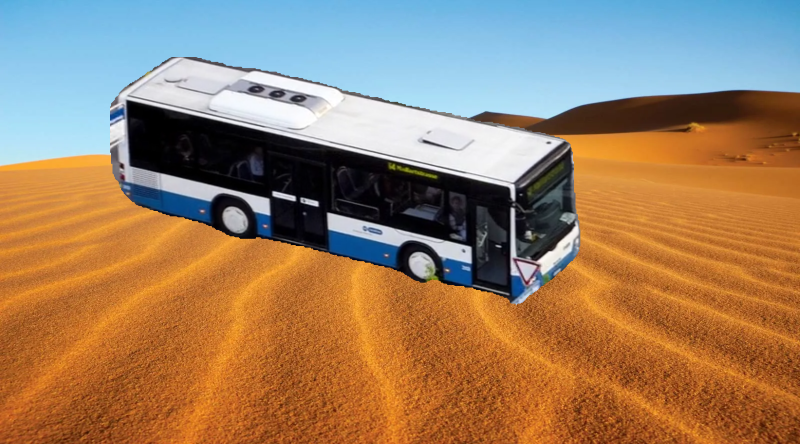
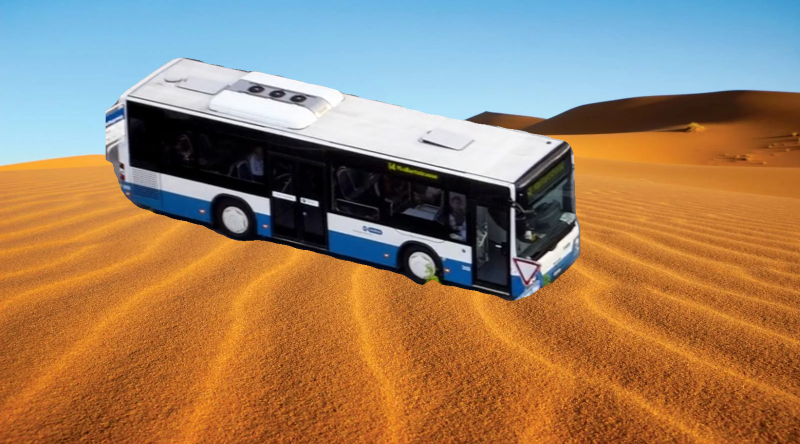
Enabled retina-masks, updated homepage images accordingly, added Home link in header

diff --git a/View/src/components/Header/index.tsx b/View/src/components/Header/index.tsx
@@ -1,7 +1,7 @@
 import {AppBar, Toolbar, Typography, Button } from '@mui/material';
 import { Auth, onAuthStateChanged, signOut } from 'firebase/auth';
 import { useState, useEffect } from 'react';
-import { useNavigate } from 'react-router-dom';
+import { useNavigate, Link } from 'react-router-dom';
 import { auth } from '../../firebase-config';
 
 const Header = () => {
@@ -22,7 +22,7 @@ const Header = () => {
     return ( 
         <AppBar position='static' sx={{m: 0, bgcolor:'#0093AB'}}>
             <Toolbar>       
-                <Typography variant="h5" component='div' sx={{flexGrow:1}}>Seer</Typography>
+                <Typography component={Link} to="/" variant="h5" sx={{color:"white", textDecoration:"None", flexGrow:1}}>Seer</Typography>
                 {isAuthenticated ?
                 <>
                 <Typography paddingRight={1}>Welcome, {auth.currentUser?.email}</Typography>

diff --git a/View/src/components/Home/index.tsx b/View/src/components/Home/index.tsx
@@ -2,7 +2,7 @@ import { Box, Grid, Typography, Button} from "@mui/material";
 import bus_pipeline_graphic from '../../assets/bus_pipeline_graphic.png';
 import bus_image from '../../assets/bus.png';
 import seg_bus_image from '../../assets/seg_bus.png';
-import extract_bus_image from '../../assets/extract_bus.jpg';
+import extract_bus_image from '../../assets/extract_bus.png';
 import filtered_bus_image from '../../assets/filtered_bus.png';
 import replaced_bus_image from '../../assets/replaced_bus.png';
 import { useNavigate } from "react-router-dom"
@@ -12,6 +12,7 @@ import type { Container, Engine } from "tsparticles-engine";
 import { loadFull } from "tsparticles";
 import { ImgComparisonSlider } from '@img-comparison-slider/react';
 import './index.css'; 
+
 
 
 const Home = () => {

diff --git a/Model/BackgroundController.py b/Model/BackgroundController.py
@@ -139,8 +139,8 @@ class BackgroundController():
 model_path = "C://Users//RaahimSiddiqi//Desktop//Code//VSC//VOS//Model//models//yolov8s-seg.pt"
 source_path = "C://Users//RaahimSiddiqi//Desktop//Code//VSC//VOS//Model//images//bus.png"
 
-inferenceController = InferenceController("yolov8x-seg.pt", source_path)
-results, classes = inferenceController.predict()
+inferenceController = InferenceController(model_path, source_path)
+results, classes = inferenceController.predict(save=True)
 
 backgroundController = BackgroundController(source_path, results)
-backgroundController.predict(classes=[5], background_path="C://Users//RaahimSiddiqi//Desktop//Code//VSC//Sand-dunes.png")
+backgroundController.predict(classes=[5])

diff --git a/Model/InferenceController.py b/Model/InferenceController.py
@@ -30,7 +30,7 @@ class InferenceController():
         self.source = source
    
     def predict(self, *args, **kwargs):
-        results = self.model.predict(self.source, *args, **kwargs)
+        results = self.model.predict(self.source, retina_masks=True, *args, **kwargs)
         return self.results_to_json_format(results), self.get_labels_per_video(results)
 
     def results_to_json_format(self, results):
